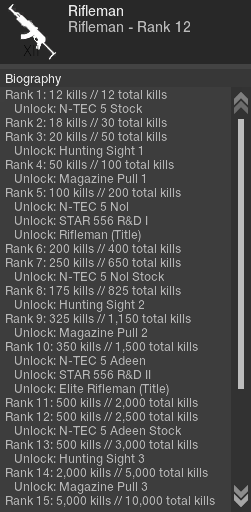
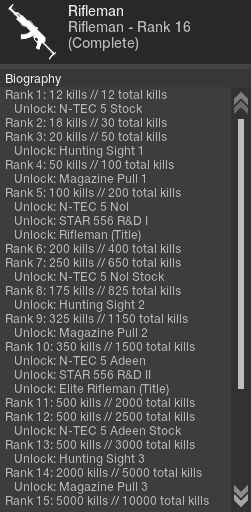
- Changed the crowbar to graffiti - Updated rifleman role so it is maxed

diff --git a/src/gui/Pages.h b/src/gui/Pages.h
@@ -624,11 +624,11 @@ struct PagePlayerRoles {
         }
         configurePreviewCard(previewCards[0],
             useShortEquipmentNames
-                ? "Assets\\Images_PlayerRoles\\burglar_short.png"
-                : "Assets\\Images_PlayerRoles\\burglar.png",
+                ? "Assets\\Images_PlayerRoles\\graffiti_short.png"
+                : "Assets\\Images_PlayerRoles\\graffiti.png",
             useShortEquipmentNames
-                ? IDR_IMG_PLAYER_ROLE_BURGLAR_SHORT
-                : IDR_IMG_PLAYER_ROLE_BURGLAR);
+                ? IDR_IMG_PLAYER_ROLE_GRAFFITI_SHORT
+                : IDR_IMG_PLAYER_ROLE_GRAFFITI);
     }
 
     static std::string latestLogLine(const std::string& text){

diff --git a/src/resource.h b/src/resource.h
@@ -18,9 +18,9 @@
 
 #define IDR_IMG_PLAYER_ROLE_GUNSLINGER   401
 #define IDR_IMG_PLAYER_ROLE_RIFLEMAN     402
-#define IDR_IMG_PLAYER_ROLE_BURGLAR      403
+#define IDR_IMG_PLAYER_ROLE_GRAFFITI     403
 #define IDR_IMG_PLAYER_ROLE_EPIDEMIC2024 404
-#define IDR_IMG_PLAYER_ROLE_BURGLAR_SHORT 405
+#define IDR_IMG_PLAYER_ROLE_GRAFFITI_SHORT 405
 
 #define IDR_IMG_CONTACT_UNLOCKS_ARLON    501
 #define IDR_IMG_CONTACT_UNLOCKS_BIRTH    502
